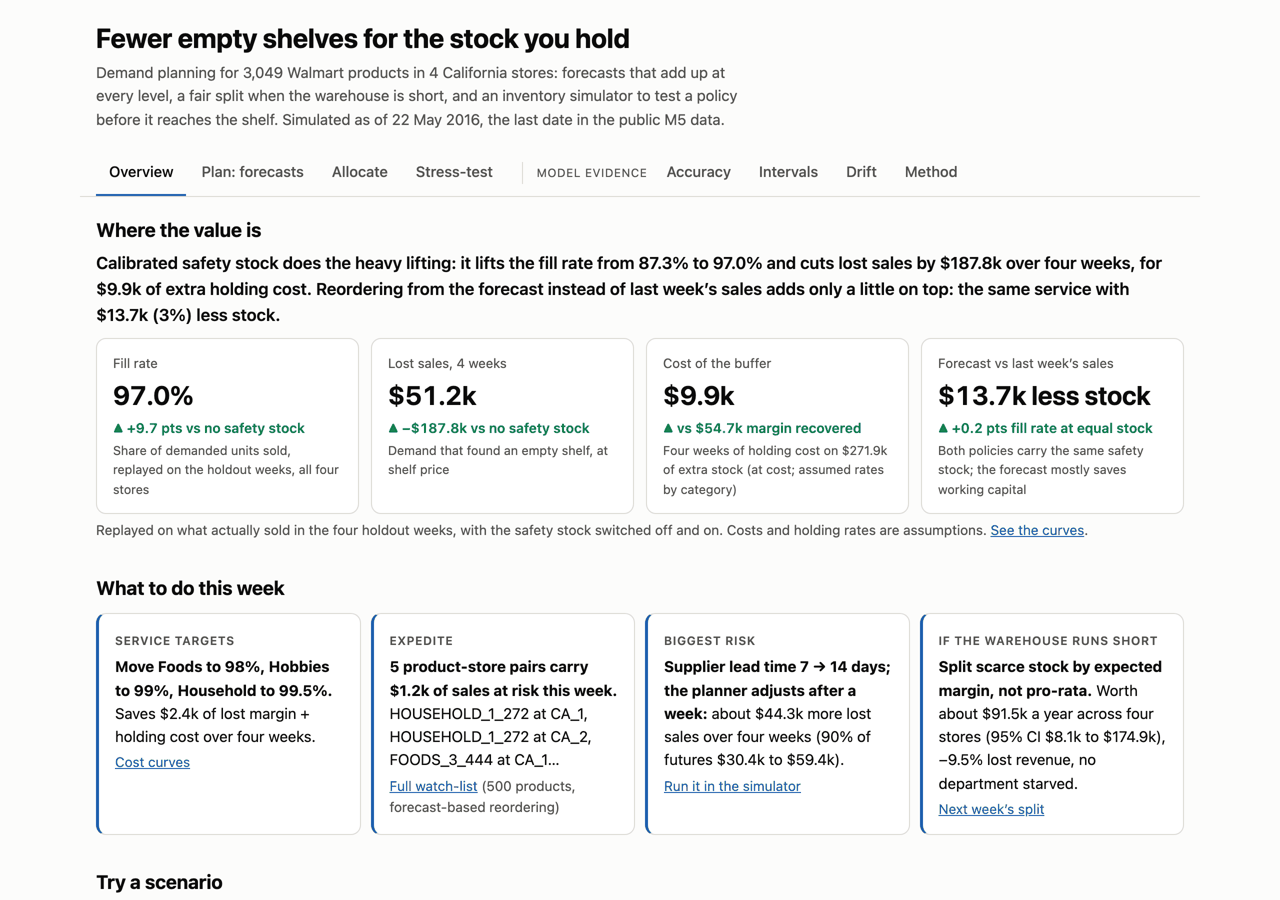
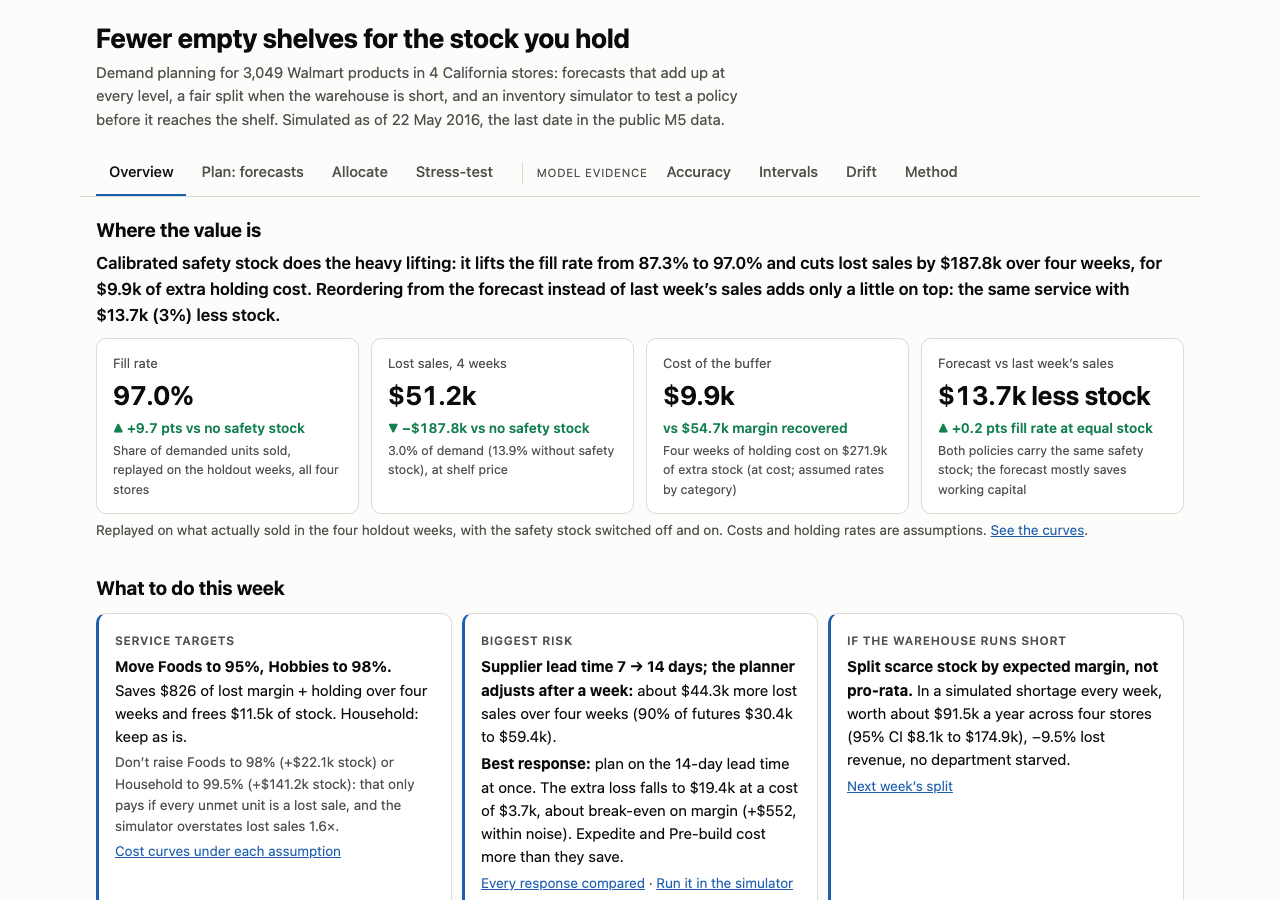
Make every page quote consistent numbers and label which window each one uses
- Scenario launcher no longer shows holdout-window losses that differ from the forward-looking simulator it opens
- What-if headline names the dates it covers; the responses table says it is tested on the validated holdout weeks
- KPI arrows follow the direction of change; colour still says whether it is good
- Stock-health card no longer repeats a lost-sales dollar figure from a separate replay
- Coverage chart gets clean 60-100% ticks; Method page wording fix
- README: 5 of 27 network checks, in-stock rate and run time match the app and run summary; fresh screenshots

Changed region(s): [[0.0625, 0.6844, 0.9062, 0.9956], [0.5, 0.4667, 0.6875, 0.4978], [0.3125, 0.4978, 0.4688, 0.5289]]

diff --git a/web/src/views/Method.tsx b/web/src/views/Method.tsx
@@ -21,7 +21,7 @@ export default function Method() {
             <p>A retailer plans stock at several levels at once: buyers plan categories, store managers plan their store, and the supply chain plans the region. If each level is forecast separately, the numbers disagree, and nobody knows which plan to order against. Supply is often short, so someone has to decide which stores go without. And a new ordering policy is usually tested on the shelf. Getting it wrong means empty shelves in one store and excess stock in another.</p>
 
             <h2>1 · Forecast</h2>
-            <p>One global <strong>{MODEL_LABELS[run.selected_bottom_model]}</strong> model forecasts daily sales for all {num(run.n_series)} product-store pairs, 28 days ahead. Every lag is at least 28 days, so nothing leaks from the forecast window. M5 records sales, not demand, so a zero can mean an empty shelf: for steady sellers, a run of zeros too long to be chance (a Poisson test) is treated as a probable stockout and left out of training and calibration. Closed days are forecast at zero, and events get distance-to-event features. Naive and seasonal-naive forecasts set the floor every model must beat.</p>
+            <p>One <strong>{MODEL_LABELS[run.selected_bottom_model]}</strong> model, trained across every series at once, forecasts daily sales for all {num(run.n_series)} product-store pairs, 28 days ahead. Every lag is at least 28 days, so nothing leaks from the forecast window. M5 records sales, not demand, so a zero can mean an empty shelf: for steady sellers, a run of zeros too long to be chance (a Poisson test) is treated as a probable stockout and left out of training and calibration. Closed days are forecast at zero, and events get distance-to-event features. Naive and seasonal-naive forecasts set the floor every model must beat.</p>
 
             <h2>2 · Reconcile: one plan that adds up</h2>
             <p>Classical SARIMA models forecast the department, category, store and state totals directly. <strong>MinT reconciliation</strong> then finds the closest set of numbers that add up exactly across every level. Forecasts that have been reliable barely move; noisy ones absorb most of the correction. Of all the ways to make the numbers add up, MinT picks the one with the smallest total forecast-error variance (the <em>trace</em> of the error covariance matrix); the served variant (<strong>{METHOD_LABELS[run.served_method]}</strong>) weights each series by its error in the previous 28-day window. With a diagonal covariance it is solved through the Woodbury identity, which inverts a small matrix instead of a {num(run.n_series)} × {num(run.n_series)} one. Pulling aggregate forecasts toward weekly ones first (temporal reconciliation) was tested and did not help, so it is off.</p>

diff --git a/web/src/views/Overview.tsx b/web/src/views/Overview.tsx
@@ -73,15 +73,14 @@ export default function Overview() {
             {stress && (
               <section>
                 <h2>Try a scenario</h2>
-                <p className="muted small">Each opens the simulator with that disruption applied to all four stores and the warehouse.</p>
+                <p className="muted small">Each opens the simulator with that disruption applied to the next four weeks, across all four stores and the warehouse.</p>
                 <div className="launch">
                   {LAUNCH.filter(({ key }) => stress.some((row) => row.scenario === key)).map(({ key, title }) => {
-                    const row = stress.find((r) => r.scenario === key && r.policy === 'forecast_reorder' && r.metric === 'lost_sales_value' && (r.rationing ?? 'days_of_cover') === 'days_of_cover')
+                    const row = stress.find((r) => r.scenario === key)
                     return (
                       <a key={key} className="preset" href={`#/twin?scenario=${key}`}>
                         <strong>{title}</strong>
                         <span>{row?.label.replace(/^[^:]*:\s*/, '')}</span>
-                        {row && <span className="num"> · {row.delta >= 0 ? '+' : ''}{usd(row.delta)} lost sales</span>}
                       </a>
                     )
                   })}
@@ -263,7 +262,7 @@ function Health({ rows }: { rows: InventoryHealthRow[] }) {
       <div className="grid kpis">
         <Kpi label="Weeks of supply" value={total.weeks_of_supply.toFixed(1)} tone="flat" note={`${total.store_weeks_of_supply.toFixed(1)} in stores + ${(total.weeks_of_supply - total.store_weeks_of_supply).toFixed(1)} in the warehouse, at cost`} />
         <Kpi label="Inventory turns" value={`${total.turns.toFixed(1)}× a year`} tone="flat" note={`GMROI ${total.gmroi.toFixed(2)}: ${usd(total.gmroi)} of gross margin a year per $1 of stock (assumed margins)`} />
-        <Kpi label="Lost sales" value={`${pct(total.lost_share)} of demand`} tone="flat" note={`${usd(total.lost_sales_value)} over 4 weeks against ${usd(total.sales_value)} sold`} />
+        <Kpi label="Lost sales" value={`${pct(total.lost_share)} of demand`} tone="flat" note={`Demand that found an empty shelf, against ${usd(total.sales_value)} sold over the 4 weeks`} />
         <Kpi label="Warehouse" value={`${pct(total.dc_fill_rate ?? NaN)} of store orders filled`} tone="flat"
           note={`${usd(total.dc_inventory_value ?? NaN)} on hand, ${usd(total.dc_on_order_value ?? NaN)} on order from the supplier`} />
       </div>

diff --git a/web/src/views/Twin.tsx b/web/src/views/Twin.tsx
@@ -8,7 +8,7 @@ import type {
 import { Async, ChartBox, CsvButton, Kpi, Problem, Segmented, Select, type Tone } from '../components/ui'
 import { useData } from '../components/data'
 import { axisProps, gridProps, SERIES, tooltipStyle } from '../lib/chart'
-import { POLICY_LABELS, RATIONING_LABELS, num, pct, points, signedPct, signedUsd, usd } from '../lib/format'
+import { POLICY_LABELS, RATIONING_LABELS, num, pct, points, shortDate, signedPct, signedUsd, usd } from '../lib/format'
 import { bestResponse, mean } from '../lib/metrics'
 import { runSimulation, STAGE_LABELS, warmSimulator, type Stage } from '../twin/client'
 
@@ -94,7 +94,7 @@ function WhatIf({ index }: { index: TwinPresetIndex }) {
       <h2>1 · What if…?</h2>
       <p className="answer">
         {shown?.result.scenario
-          ? <>{shown.label}: lost sales {signedUsd(kpis(shown.result.scenario).lost_sales_value.mean - kpis(shown.result.baseline).lost_sales_value.mean)} over the 4 weeks {where},
+          ? <>{shown.label}: lost sales {signedUsd(kpis(shown.result.scenario).lost_sales_value.mean - kpis(shown.result.baseline).lost_sales_value.mean)} over the next four weeks ({shortDate(index.dates[0])} to {shortDate(index.dates[index.dates.length - 1])}) {where},
             and fill rate moves {points(kpis(shown.result.scenario).fill_rate.mean - kpis(shown.result.baseline).fill_rate.mean)}.</>
           : 'Pick a scenario to compare it with business as usual.'}
       </p>
@@ -324,7 +324,7 @@ function Responses({ rows, summary }: { rows: TwinResponseRow[]; summary: Summar
       <h2>What would we do about it?</h2>
       <p className="answer">{responseVerdict(rows, ordered)}</p>
       <p className="muted small">
-        Each response is simulated against the same futures as the disruption. Cost = expedite or second-supplier premium (assumed) + extra holding at the stores and warehouse.
+        Tested on the four holdout weeks (the window the simulator was validated on), so the figures differ a little from the what-if above, which looks forward. Each response is simulated against the same futures as the disruption. Cost = expedite or second-supplier premium (assumed) + extra holding at the stores and warehouse.
         Net benefit = lost margin recovered (corrected for the simulator’s {bias ? `${bias.toFixed(1)}× ` : ''}overstatement of lost sales) minus that cost; a response is worth it when its 90% range is above zero.
       </p>
       <div className="table-wrap stack">

diff --git a/web/src/views/Intervals.tsx b/web/src/views/Intervals.tsx
@@ -41,7 +41,7 @@ export default function Intervals() {
               <ScatterChart margin={{ top: 8, right: 16, bottom: 8, left: 0 }}>
                 <CartesianGrid {...gridProps} />
                 <XAxis type="category" dataKey="level" allowDuplicatedCategory={false} {...axisProps} />
-                <YAxis type="number" dataKey="coverage" domain={[0.6, 1.02]} tickFormatter={(v: number) => `${(v * 100).toFixed(0)}%`} {...axisProps} width={48} />
+                <YAxis type="number" dataKey="coverage" domain={[0.6, 1]} ticks={[0.6, 0.7, 0.8, 0.9, 1]} tickFormatter={(v: number) => `${(v * 100).toFixed(0)}%`} {...axisProps} width={48} />
                 <Tooltip {...tooltipStyle} formatter={(v: unknown) => pct(Number(v))} />
                 <Legend wrapperStyle={{ fontSize: 12 }} />
                 {series.map((s, i) => <ReferenceLine key={`ref${s.nominal}`} y={s.nominal} stroke={SERIES[i]} strokeDasharray="3 3" />)}

diff --git a/web/src/lib/format.ts b/web/src/lib/format.ts
@@ -30,6 +30,9 @@ export const usd = (value: number): string => {
   return `${sign}$${abs.toFixed(0)}`
 }
 export const signedUsd = (value: number): string => (value > 0 ? `+${usd(value)}` : usd(value))
+/** "2016-05-23" -> "23 May" (dates are ISO strings in the data; formatted in UTC so the day never shifts). */
+export const shortDate = (iso: string): string =>
+  new Date(`${iso.slice(0, 10)}T00:00:00Z`).toLocaleDateString('en-GB', { day: 'numeric', month: 'short', timeZone: 'UTC' })
 export const points = (value: number, digits = 1): string => `${value >= 0 ? '+' : '−'}${Math.abs(value * 100).toFixed(digits)} pts`
 
 /** "department:dept_id=FOODS_3|store_id=CA_1" -> "dept: FOODS_3 · store: CA_1"; the state total reads "All CA stores". */

diff --git a/web/src/lib/format.test.ts b/web/src/lib/format.test.ts
@@ -1,5 +1,5 @@
 import { describe, expect, it } from 'vitest'
-import { nodeLabel, num, pct, relativeGap, signedPct, storeOf, usd } from './format'
+import { nodeLabel, num, pct, relativeGap, shortDate, signedPct, storeOf, usd } from './format'
 
 describe('format', () => {
   it('formats percentages with explicit signs', () => {
@@ -23,5 +23,12 @@ describe('format', () => {
     expect(gaps[1]).toBe(0)
     expect(gaps[0]).toBeCloseTo(1)
     expect(gaps[2]).toBeCloseTo(0.5)
+  })
+})
+
+describe('shortDate', () => {
+  it('formats ISO dates without shifting the day', () => {
+    expect(shortDate('2016-05-23')).toBe('23 May')
+    expect(shortDate('2016-06-19T00:00:00')).toBe('19 Jun')
   })
 })

diff --git a/web/src/components/ui.tsx b/web/src/components/ui.tsx
@@ -19,7 +19,8 @@ export function Async<T>({ state, children }: { state: { data?: T; error?: strin
 }
 
 export function Kpi({ label, value, delta, tone = 'flat', note }: { label: string; value: string; delta?: string; tone?: Tone; note?: string }) {
-  const arrow = tone === 'good' ? '▲ ' : tone === 'bad' ? '▼ ' : ''
+  // The arrow shows direction (from the delta's sign); the colour shows whether that direction is good.
+  const arrow = delta?.startsWith('+') ? '▲ ' : /^[−-]/.test(delta ?? '') ? '▼ ' : ''
   return (
     <div className="card kpi">
       <span className="label">{label}</span>

diff --git a/README.md b/README.md
@@ -109,7 +109,7 @@ Every response cuts the loss, but at grocery margins (25–40%, assumed) none cl
 
 How the warehouse shares a short product barely matters: by days of cover, proportionally or by value, each rule loses about $8.2k. Each product's shortfall is split between just four stores with similar cover.
 
-**How far to trust it.** The predicted network fill rate is within 1.1 points of reality on average (holdout: 96.8% predicted vs 97.0% realised). Its 90% ranges are still too narrow, though: the realised value fell inside them in 5 of 24 network checks. Predicted dollar losses run about 1.6× high, because predicted demand is ~8% above observed sales, which stockouts themselves hold down. Read dollar figures as comparisons between policies, not as forecasts. It also assumes perfect store execution: every unit that reaches a store is on the shelf, whereas two-thirds to three-quarters of real stockouts start in the store. Its 98.5% in-stock rate is a ceiling, not a prediction (studies put the average out-of-stock rate near 8%).
+**How far to trust it.** The predicted network fill rate is within 1.1 points of reality on average (holdout: 96.8% predicted vs 97.0% realised). Its 90% ranges are still too narrow, though: the realised value fell inside them in 5 of 27 network checks. Predicted dollar losses run about 1.6× high, because predicted demand is ~8% above observed sales, which stockouts themselves hold down. Read dollar figures as comparisons between policies, not as forecasts. It also assumes perfect store execution: every unit that reaches a store is on the shelf, whereas two-thirds to three-quarters of real stockouts start in the store. Its simulated in-stock rate of about 98.6% is a ceiling, not a prediction (studies put the average out-of-stock rate near 8%).
 
 ## Honest limitations
 
@@ -130,7 +130,7 @@ How the warehouse shares a short product barely matters: by days of cover, propo
 - **Backtests, then a holdout.** Three rolling 28-day backtests, then a final 28-day holdout. Model and reconciliation choices use backtests only.
 - **Decision-level accuracy.** Forecasts are also scored over each product's replenishment window, with bias by weekday and event days and a tracking-signal list of products the forecast keeps missing in one direction.
 - **Allocation backtest.** Weekly allocations are scored on realised sales, with stores carrying stock from week to week, and reported with a 95% confidence interval.
-- **Tests.** 109 Python tests, including closed-form newsvendor checks, unit conservation, every planner response and a full synthetic pipeline run. 15 web tests, including the Pyodide/CPython parity check. CI runs everything on every push.
+- **Tests.** 109 Python tests, including closed-form newsvendor checks, unit conservation, every planner response and a full synthetic pipeline run. 16 web tests, including the Pyodide/CPython parity check. CI runs everything on every push.
 
 ## Repository layout
 
@@ -156,7 +156,7 @@ data/dashboard/      committed results extract the app and API read
 python -m pip install -e ".[prophet,api,data,dev]"   # macOS: brew install libomp
 python scripts/download_data.py                      # downloads and verifies the M5 data
 python -m forecasting --states CA                    # prepare the data
-python -m forecasting.pipeline                       # full run, ~25 min on a laptop
+python -m forecasting.pipeline                       # full run, ~17 min on a laptop (much longer on battery)
 python -m pytest -q
 
 # web app
